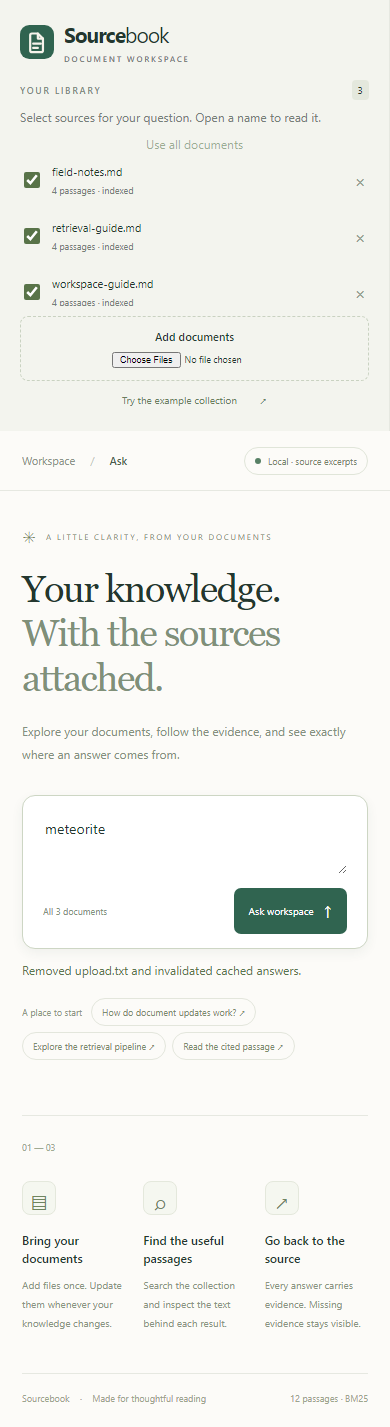
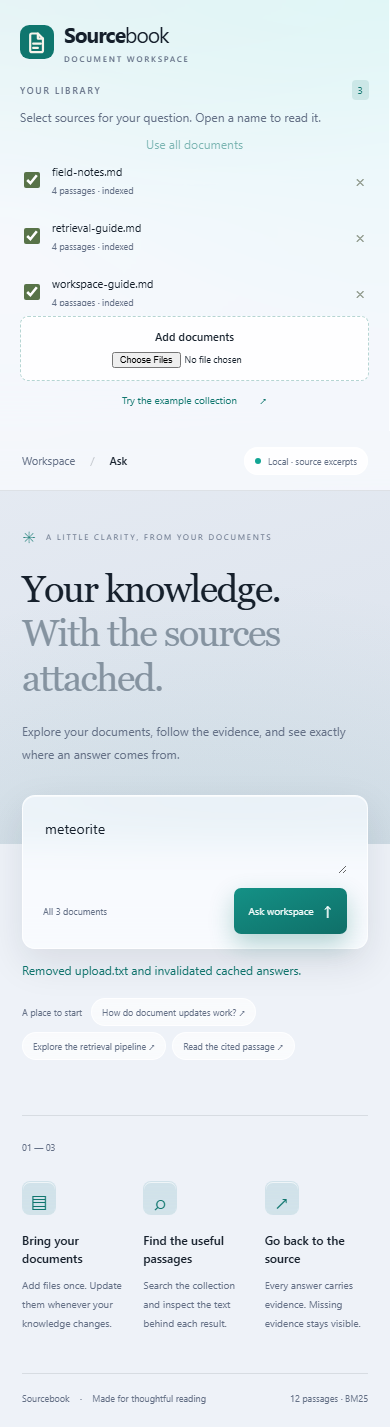
Retheme interface with glass surfaces

diff --git a/src/ui/style.css b/src/ui/style.css
@@ -3,3 +3,56 @@
 /* Source selection and a readable, keyboard-accessible document reader. */
 .scope-hint{font-size:12px;color:var(--muted);line-height:1.5;margin:10px 0 6px}.scope-all{font-size:12px;border:0;background:none;color:#496b3b;padding:4px 0;cursor:pointer}.scope-all:disabled{opacity:.5;cursor:default}.document-select{accent-color:#587348;width:16px;height:16px;flex:0 0 16px}.document-open{background:none;border:0;padding:0;text-align:left;color:inherit;cursor:pointer;display:block}.document-open:hover{text-decoration:underline}.read-document{border:1px solid #cbd6c1;border-radius:6px;background:white;color:#48623c;font-size:12px;padding:7px 10px;margin-top:12px;cursor:pointer}
 #document-reader{width:min(840px,calc(100vw - 32px));max-height:88vh;border:1px solid #d5ddcb;border-radius:14px;padding:0;color:#283426;background:#fff;box-shadow:0 24px 90px #1f301b33}#document-reader::backdrop{background:#18281577}.reader-header{display:flex;justify-content:space-between;align-items:center;padding:22px 26px;border-bottom:1px solid #e1e6db;gap:16px}.reader-header small{font-size:11px;color:#78876c;letter-spacing:.12em}.reader-header h2{font-size:20px;margin-top:7px;overflow-wrap:anywhere}.reader-header button{border:0;background:#f0f3eb;border-radius:8px;font-size:26px;width:38px;height:38px;cursor:pointer;flex:0 0 38px}#reader-passages{max-height:60vh;overflow:auto;padding:8px 26px}.reader-passage{padding:16px 12px;border-bottom:1px solid #e9ede4;scroll-margin:16px}.reader-passage.highlighted{background:#f0f5e8;border-left:3px solid #719155}.reader-passage small{font-size:12px;color:#67785b}.reader-passage pre{font:15px/1.8 ui-sans-serif,system-ui,sans-serif;white-space:pre-wrap;overflow-wrap:anywhere;margin:12px 0}.reader-navigation{display:flex;align-items:center;justify-content:space-between;margin:0;padding:16px 26px;border-top:1px solid #e1e6db;font-size:12px}.reader-navigation button{background:#eff3e9;border:1px solid #d8e0ce;border-radius:6px;padding:8px;cursor:pointer}.reader-navigation button:disabled{opacity:.4;cursor:default}#reader-message{padding:0 26px;font-size:14px;color:#93453d}button:focus-visible,input:focus-visible{outline:2px solid #6c8c55;outline-offset:3px}@media(max-width:760px){.scope-hint{margin-top:8px}.reader-header{padding:16px}.reader-navigation{padding:12px;gap:8px}#reader-passages{padding:4px 12px}.reader-navigation button{font-size:12px}.reader-header h2{font-size:17px}}
+
+/* ---------------------------------------------------------------------------
+   Theme: cool glass. Layered translucent surfaces over a soft gradient base,
+   one deep-teal accent, colour kept on meaning rather than decoration. The
+   editorial serif headings are deliberate and stay.
+   --------------------------------------------------------------------------- */
+:root{
+  --bg:#eef2f8;
+  --paper:rgba(255,255,255,.72);
+  --ink:#16202c;
+  --muted:#647086;
+  --line:rgba(22,32,44,.10);
+  --green:#0f766e;
+  --pale:rgba(15,118,110,.12);
+  --glass:rgba(255,255,255,.62);
+  --glass-line:rgba(255,255,255,.8);
+  --shadow:0 14px 38px rgba(18,32,52,.10);
+}
+body{
+  background:
+    radial-gradient(1200px 620px at 2% -16%,rgba(15,118,110,.22),transparent 58%),
+    radial-gradient(1000px 620px at 104% 0%,rgba(45,212,191,.18),transparent 56%),
+    radial-gradient(900px 700px at 55% 118%,rgba(15,118,110,.12),transparent 60%),
+    linear-gradient(165deg,#eef2f8,#dbe2ec);
+  background-attachment:fixed;
+}
+.sidebar{background:var(--glass);backdrop-filter:blur(22px) saturate(150%);-webkit-backdrop-filter:blur(22px) saturate(150%);border-right:1px solid var(--glass-line)}
+.topbar{position:sticky;top:0;z-index:5;background:rgba(255,255,255,.62);backdrop-filter:blur(18px) saturate(140%);-webkit-backdrop-filter:blur(18px) saturate(140%)}
+.workspace,.status-pill,.composer,.answer-card,.source-card,.feature-icon,.upload-area,.document-icon{background:var(--glass);border-color:var(--glass-line);box-shadow:inset 0 1px 0 rgba(255,255,255,.65);backdrop-filter:blur(18px) saturate(160%);-webkit-backdrop-filter:blur(18px) saturate(160%)}
+.composer,.answer-card{box-shadow:var(--shadow),inset 0 1px 0 rgba(255,255,255,.6)}
+.composer:focus-within{border-color:rgba(15,118,110,.45);box-shadow:0 0 0 4px rgba(15,118,110,.14),var(--shadow)}
+.workspace-icon,.count,.nav-item.active,.citation-link,.feature-icon,.document-icon,.read-document,.reader-navigation button,.reader-header button{background:var(--pale);color:var(--green);border-color:transparent}
+.nav-item.active{color:#0b4f4a}
+.tiny-mark,.scope-all,.text-button{color:var(--green)}
+.composer button{background:linear-gradient(160deg,#149186,#0f6f68);color:#f3fbfa;box-shadow:0 10px 24px rgba(15,118,110,.30)}
+.composer button:hover{filter:brightness(1.06)}
+.suggestions button{background:var(--glass);border-color:var(--glass-line);color:var(--muted);backdrop-filter:blur(12px);-webkit-backdrop-filter:blur(12px)}
+.suggestions button:hover{background:rgba(255,255,255,.85);color:var(--green)}
+.upload-area{border-color:rgba(15,118,110,.30)}
+.upload-area:hover{background:rgba(255,255,255,.85)}
+.live-dot{background:#12a594}
+#notice{color:var(--green)}
+#document-reader{color:var(--ink);background:rgba(255,255,255,.84);backdrop-filter:blur(28px) saturate(160%);-webkit-backdrop-filter:blur(28px) saturate(160%);border-color:var(--glass-line);box-shadow:0 30px 90px rgba(14,28,48,.28)}
+#document-reader::backdrop{background:rgba(13,21,32,.42);backdrop-filter:blur(3px)}
+.reader-header,.reader-navigation,.reader-passage{border-color:var(--line)}
+.reader-passage.highlighted{background:rgba(15,118,110,.10);border-left:3px solid var(--green)}
+.source-card:target{outline:2px solid rgba(15,118,110,.55)}
+h1>span{color:#8593a0}
+.topbar strong{color:var(--ink)}
+.slash{color:rgba(22,32,44,.28)}
+.nav-label,.nav-key,.topbar,.eyebrow,.intro,.composer-bottom>span,.suggestions>span,.scope-hint,.status-pill,.empty-library,.sidebar-bottom,.sidebar-bottom small,.sidebar-bottom a,.answer-heading span,.evidence-heading span,.answer-note,.source-card small,.source-card details,.feature-grid p,.welcome-top>span:last-child,footer,.reader-header small,.reader-passage small{color:var(--muted)}
+button:focus-visible,a:focus-visible,textarea:focus-visible,label:focus-within{outline:3px solid rgba(15,118,110,.45);outline-offset:3px}
+button:focus-visible,input:focus-visible{outline:2px solid rgba(15,118,110,.55)}
